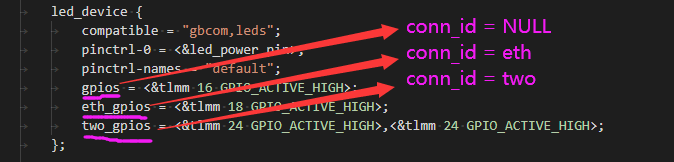
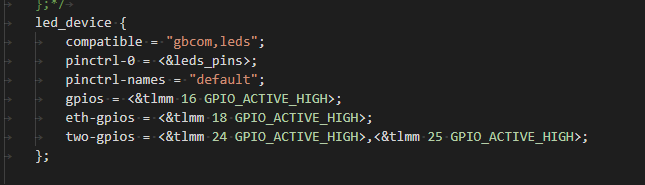
Site updated: 2020-09-16 14:48:57

diff --git a/2020/09/15/kernel/内核GPIO系统理解/index.html b/2020/09/15/kernel/内核GPIO系统理解/index.html
@@ -318,11 +318,11 @@
 <li>pinctrl-0 = &lt;&amp;led_pins&gt;; // 选择GPIO口的复用功能（哪种电气特性）</li>
 <li>pinctrl-names = “default”; // 起个名字，用于 pinctrl_select_state 传参</li>
 <li>gpios = &lt;&amp;tlmm 16 GPIO_ACTIVE_HIGH&gt;; // 指定使用的GPIO口</li>
-<li>eth_gpios = &lt;&amp;tlmm 18 GPIO_ACTIVE_HIGH&gt;;</li>
-<li>two_gpios = &lt;&amp;tlmm 24 GPIO_ACTIVE_HIGH&gt;,&lt;&amp;tlmm 24 GPIO_ACTIVE_HIGH&gt;;</li>
+<li>eth-gpios = &lt;&amp;tlmm 18 GPIO_ACTIVE_HIGH&gt;;</li>
+<li>two-gpios = &lt;&amp;tlmm 24 GPIO_ACTIVE_HIGH&gt;,&lt;&amp;tlmm 24 GPIO_ACTIVE_HIGH&gt;;</li>
 </ul>
 <blockquote>
-<p>这里需要注意，指定GPIO口的属性名称必须是 gpio 或者gpios 或者 xxx_gpio 或者 xxx_gpios，如果没有前缀，那么在使用<strong>新API</strong>申请GPIO资源时 <strong>gpiod_get(struct device *dev,const char *con_id,enum gpiod_flags flags)</strong> 其中参数 <strong>con_id</strong> 应为 <strong>NULL</strong>，如果有前缀，那么 <strong>con_id</strong> 应为 <strong>前缀xxx</strong></p>
+<p>这里需要注意，指定GPIO口的属性名称必须是 gpio 或者gpios 或者 xxx-gpio 或者 xxx-gpios，如果没有前缀，那么在使用<strong>新API</strong>申请GPIO资源时 <strong>gpiod_get(struct device *dev,const char *con_id,enum gpiod_flags flags)</strong> 其中参数 <strong>con_id</strong> 应为 <strong>NULL</strong>，如果有前缀，那么 <strong>con_id</strong> 应为 <strong>前缀xxx</strong></p>
 </blockquote>
 <hr>
 <h3 id="3-写驱动"><a href="#3-写驱动" class="headerlink" title="3. 写驱动"></a>3. 写驱动</h3><h4 id="第一步：platfrom驱动固定套路"><a href="#第一步：platfrom驱动固定套路" class="headerlink" title="第一步：platfrom驱动固定套路"></a>第一步：platfrom驱动固定套路</h4><pre><code>static struct of_device_id leds_match_table[] = {
